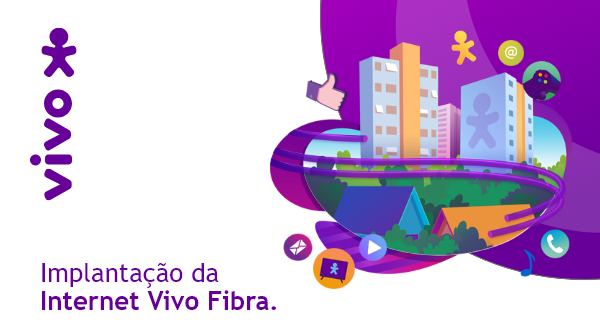
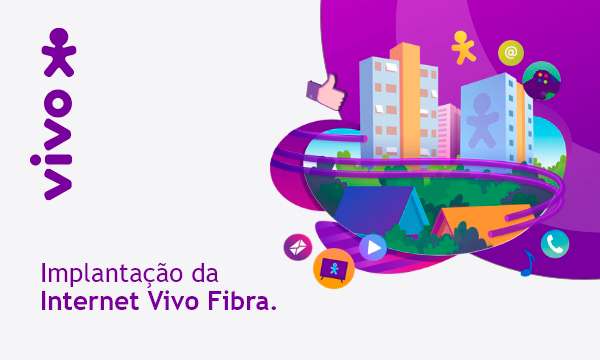
fundo cinza 8053

diff --git a/2021/Vivo/023_247_8053/8053_email_equipe_tecnica_1_hospedadas.html b/2021/Vivo/023_247_8053/8053_email_equipe_tecnica_1_hospedadas.html
@@ -60,7 +60,7 @@
       </td>
     </tr>
   </table> 
-   <table width="600" class="tableWidth" border="0" cellpadding="0" cellspacing="0" align="center" bgcolor="#ffffff">
+   <table width="600" class="tableWidth" border="0" cellpadding="0" cellspacing="0" align="center" bgcolor="#F5F5F7">
     <tr>
       <td>
         <img border="0" width="600" style="display: block;" src="https://www.vivo.com.br/content/dam/crm/outubro21/carta_tecnica/banner.png" alt="" class="wd100">
@@ -331,9 +331,13 @@
     </td>
   </tr>
   <tr>
-                  <td align="center" style="padding: 0 0 0px 0;">
-                    <font face="Trebuchet MS, Arial, sans-serif" style="font-size: 10px; line-height: 1.2; color:#000000; display: block;">
-                      Caso n&atilde;o queira mais receber este e-mail, <a href="%%unsub_center_url%%" target="_blank" style="color: #000000;">clique aqui.</a>
-                    </font>
-                  </td>
-                </tr></table></body></html>
+    <td align="center" style="padding: 0 0 0px 0;">
+      <font face="Trebuchet MS, Arial, sans-serif" style="font-size: 10px; line-height: 1.2; color:#000000; display: block;">
+        Caso n&atilde;o queira mais receber este e-mail, <a href="%%unsub_center_url%%" target="_blank" style="color: #000000;">clique aqui.</a>
+      </font>
+    </td>
+  </tr>
+</table>
+<custom name="opencounter" type="tracking"/>
+</body>
+</html>

diff --git a/2021/Vivo/023_247_8053/8053_email_equipe_tecnica_1.html b/2021/Vivo/023_247_8053/8053_email_equipe_tecnica_1.html
@@ -60,7 +60,7 @@
       </td>
     </tr>
   </table> 
-   <table width="600" class="tableWidth" border="0" cellpadding="0" cellspacing="0" align="center" bgcolor="#ffffff">
+   <table width="600" class="tableWidth" border="0" cellpadding="0" cellspacing="0" align="center" bgcolor="#F5F5F7">
     <tr>
       <td>
         <img border="0" width="600" style="display: block;" src="./imagens/banner.png" alt="" class="wd100">
@@ -331,9 +331,13 @@
     </td>
   </tr>
   <tr>
-                  <td align="center" style="padding: 0 0 0px 0;">
-                    <font face="Trebuchet MS, Arial, sans-serif" style="font-size: 10px; line-height: 1.2; color:#000000; display: block;">
-                      Caso n&atilde;o queira mais receber este e-mail, <a href="%%unsub_center_url%%" target="_blank" style="color: #000000;">clique aqui.</a>
-                    </font>
-                  </td>
-                </tr></table></body></html>
+    <td align="center" style="padding: 0 0 0px 0;">
+      <font face="Trebuchet MS, Arial, sans-serif" style="font-size: 10px; line-height: 1.2; color:#000000; display: block;">
+        Caso n&atilde;o queira mais receber este e-mail, <a href="%%unsub_center_url%%" target="_blank" style="color: #000000;">clique aqui.</a>
+      </font>
+    </td>
+  </tr>
+</table>
+<custom name="opencounter" type="tracking"/>
+</body>
+</html>

diff --git a/2021/Vivo/023_247_8053/8053_email_equipe_tecnica_2_hospedadas.html b/2021/Vivo/023_247_8053/8053_email_equipe_tecnica_2_hospedadas.html
@@ -60,7 +60,7 @@
       </td>
     </tr>
   </table> 
-  <table width="600" class="tableWidth" border="0" cellpadding="0" cellspacing="0" align="center" bgcolor="#ffffff">
+  <table width="600" class="tableWidth" border="0" cellpadding="0" cellspacing="0" align="center" bgcolor="#F5F5F7">
     <tr>
       <td>
         <img border="0" width="600" style="display: block;" src="https://www.vivo.com.br/content/dam/crm/outubro21/carta_tecnica/banner_2.png" alt="" class="wd100">
@@ -322,5 +322,6 @@
     </td>
   </tr>
 </table>
+  <custom name="opencounter" type="tracking"/>
 </body>
 </html>

diff --git a/2021/Vivo/023_247_8053/8053_email_equipe_tecnica_2.html b/2021/Vivo/023_247_8053/8053_email_equipe_tecnica_2.html
@@ -60,7 +60,7 @@
       </td>
     </tr>
   </table> 
-  <table width="600" class="tableWidth" border="0" cellpadding="0" cellspacing="0" align="center" bgcolor="#ffffff">
+  <table width="600" class="tableWidth" border="0" cellpadding="0" cellspacing="0" align="center" bgcolor="#F5F5F7">
     <tr>
       <td>
         <img border="0" width="600" style="display: block;" src="./imagens/banner_2.png" alt="" class="wd100">
@@ -322,5 +322,6 @@
     </td>
   </tr>
 </table>
+  <custom name="opencounter" type="tracking"/>
 </body>
 </html>
